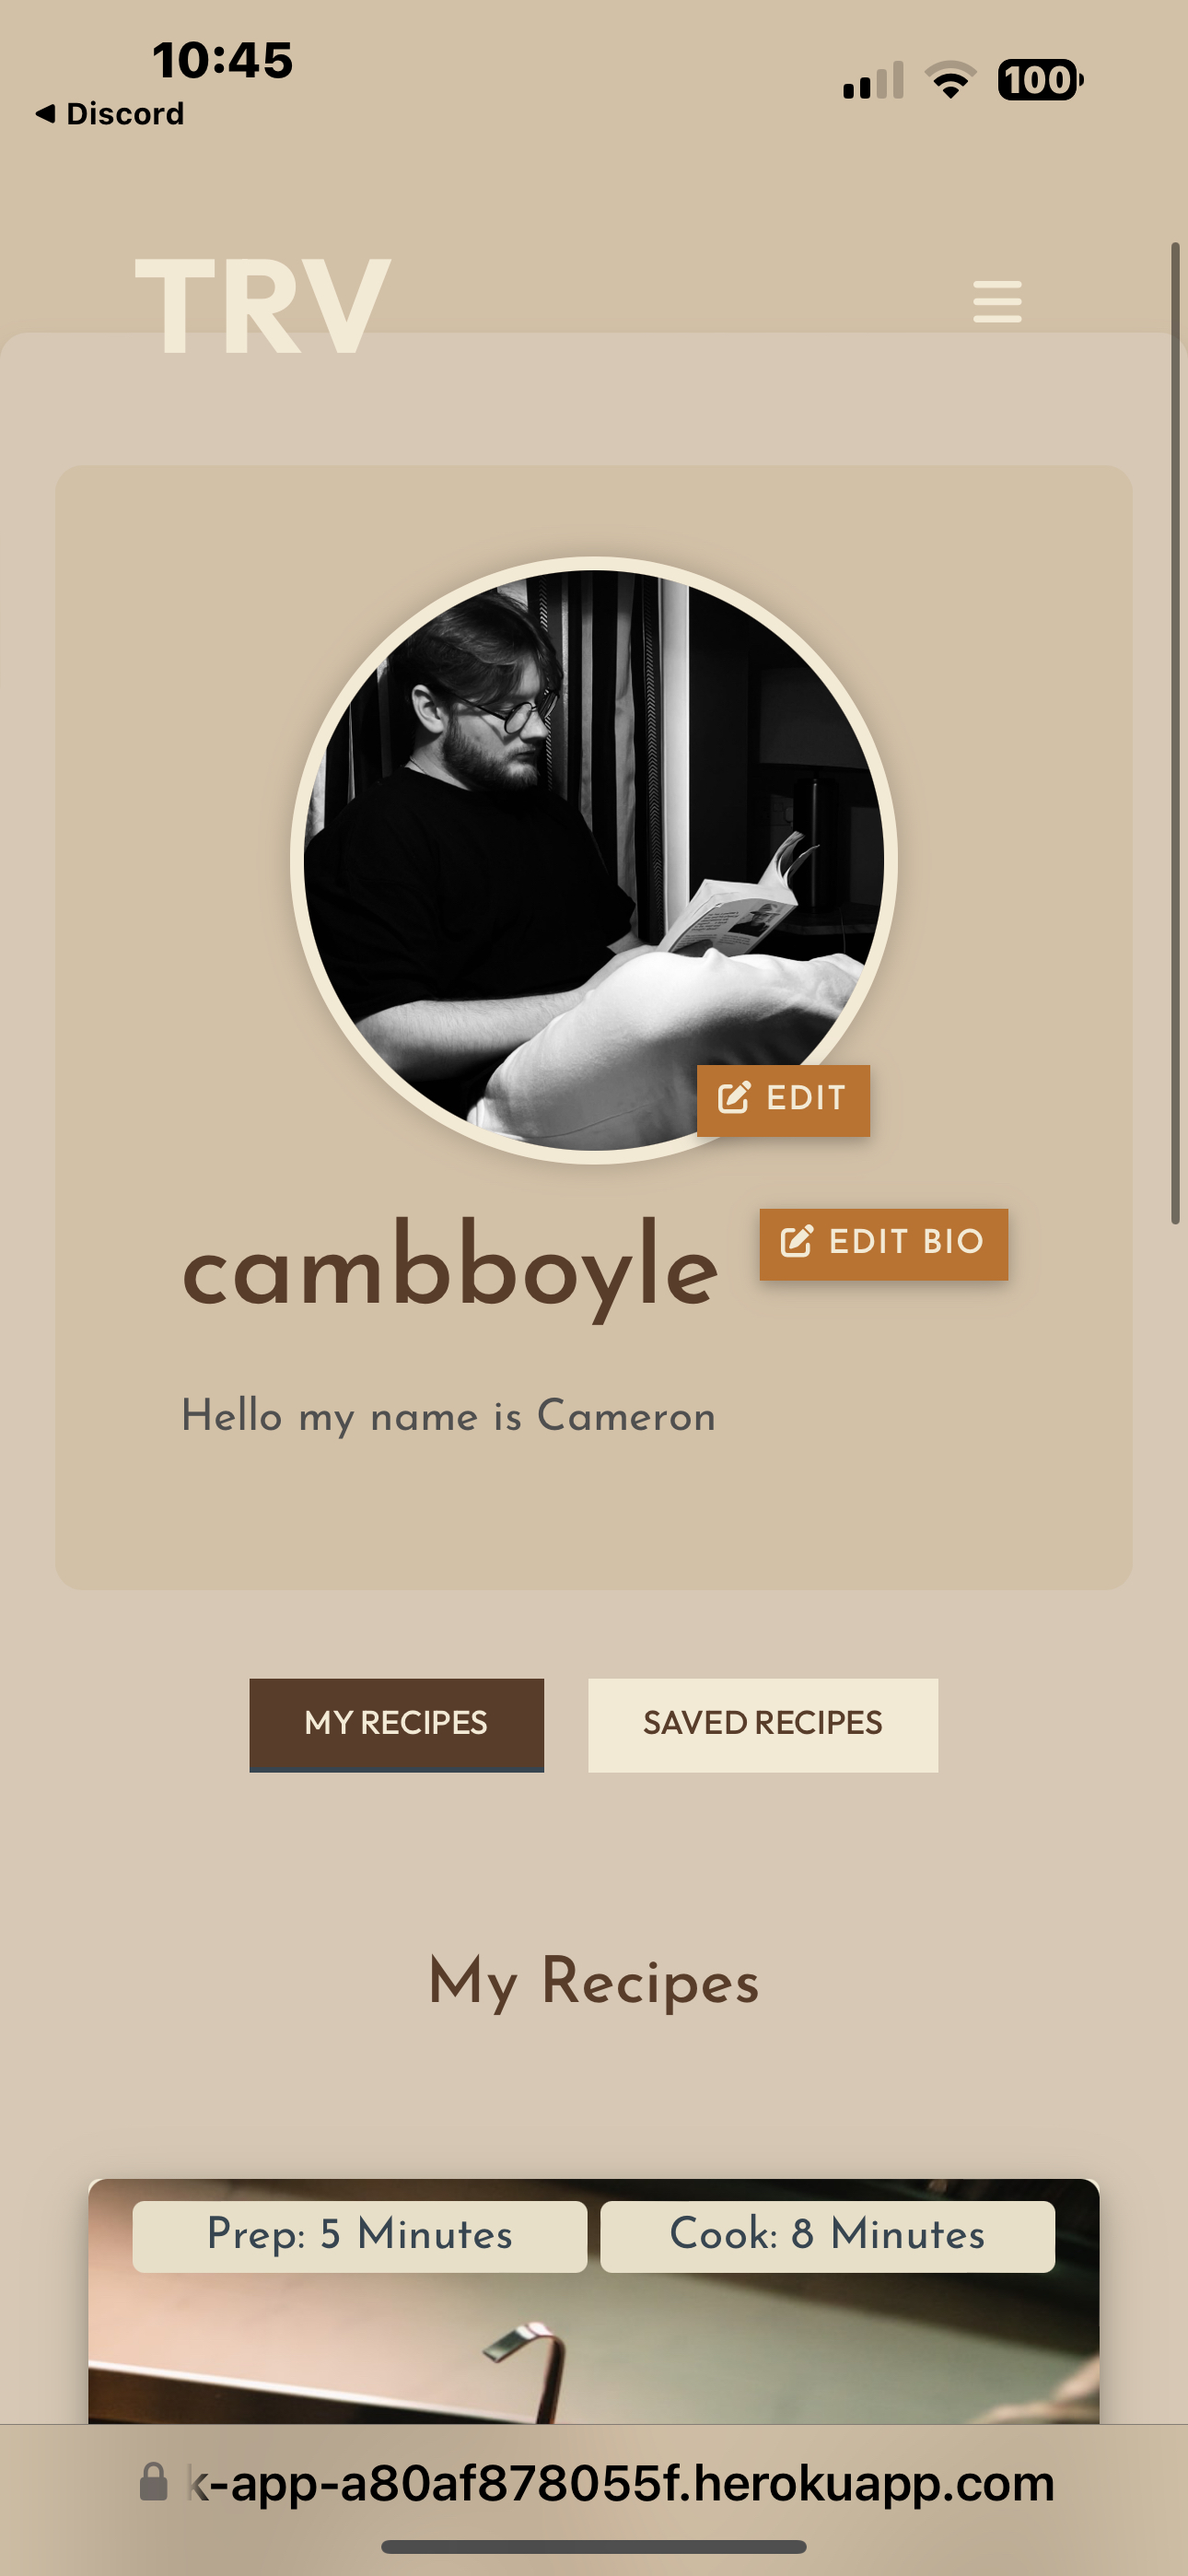
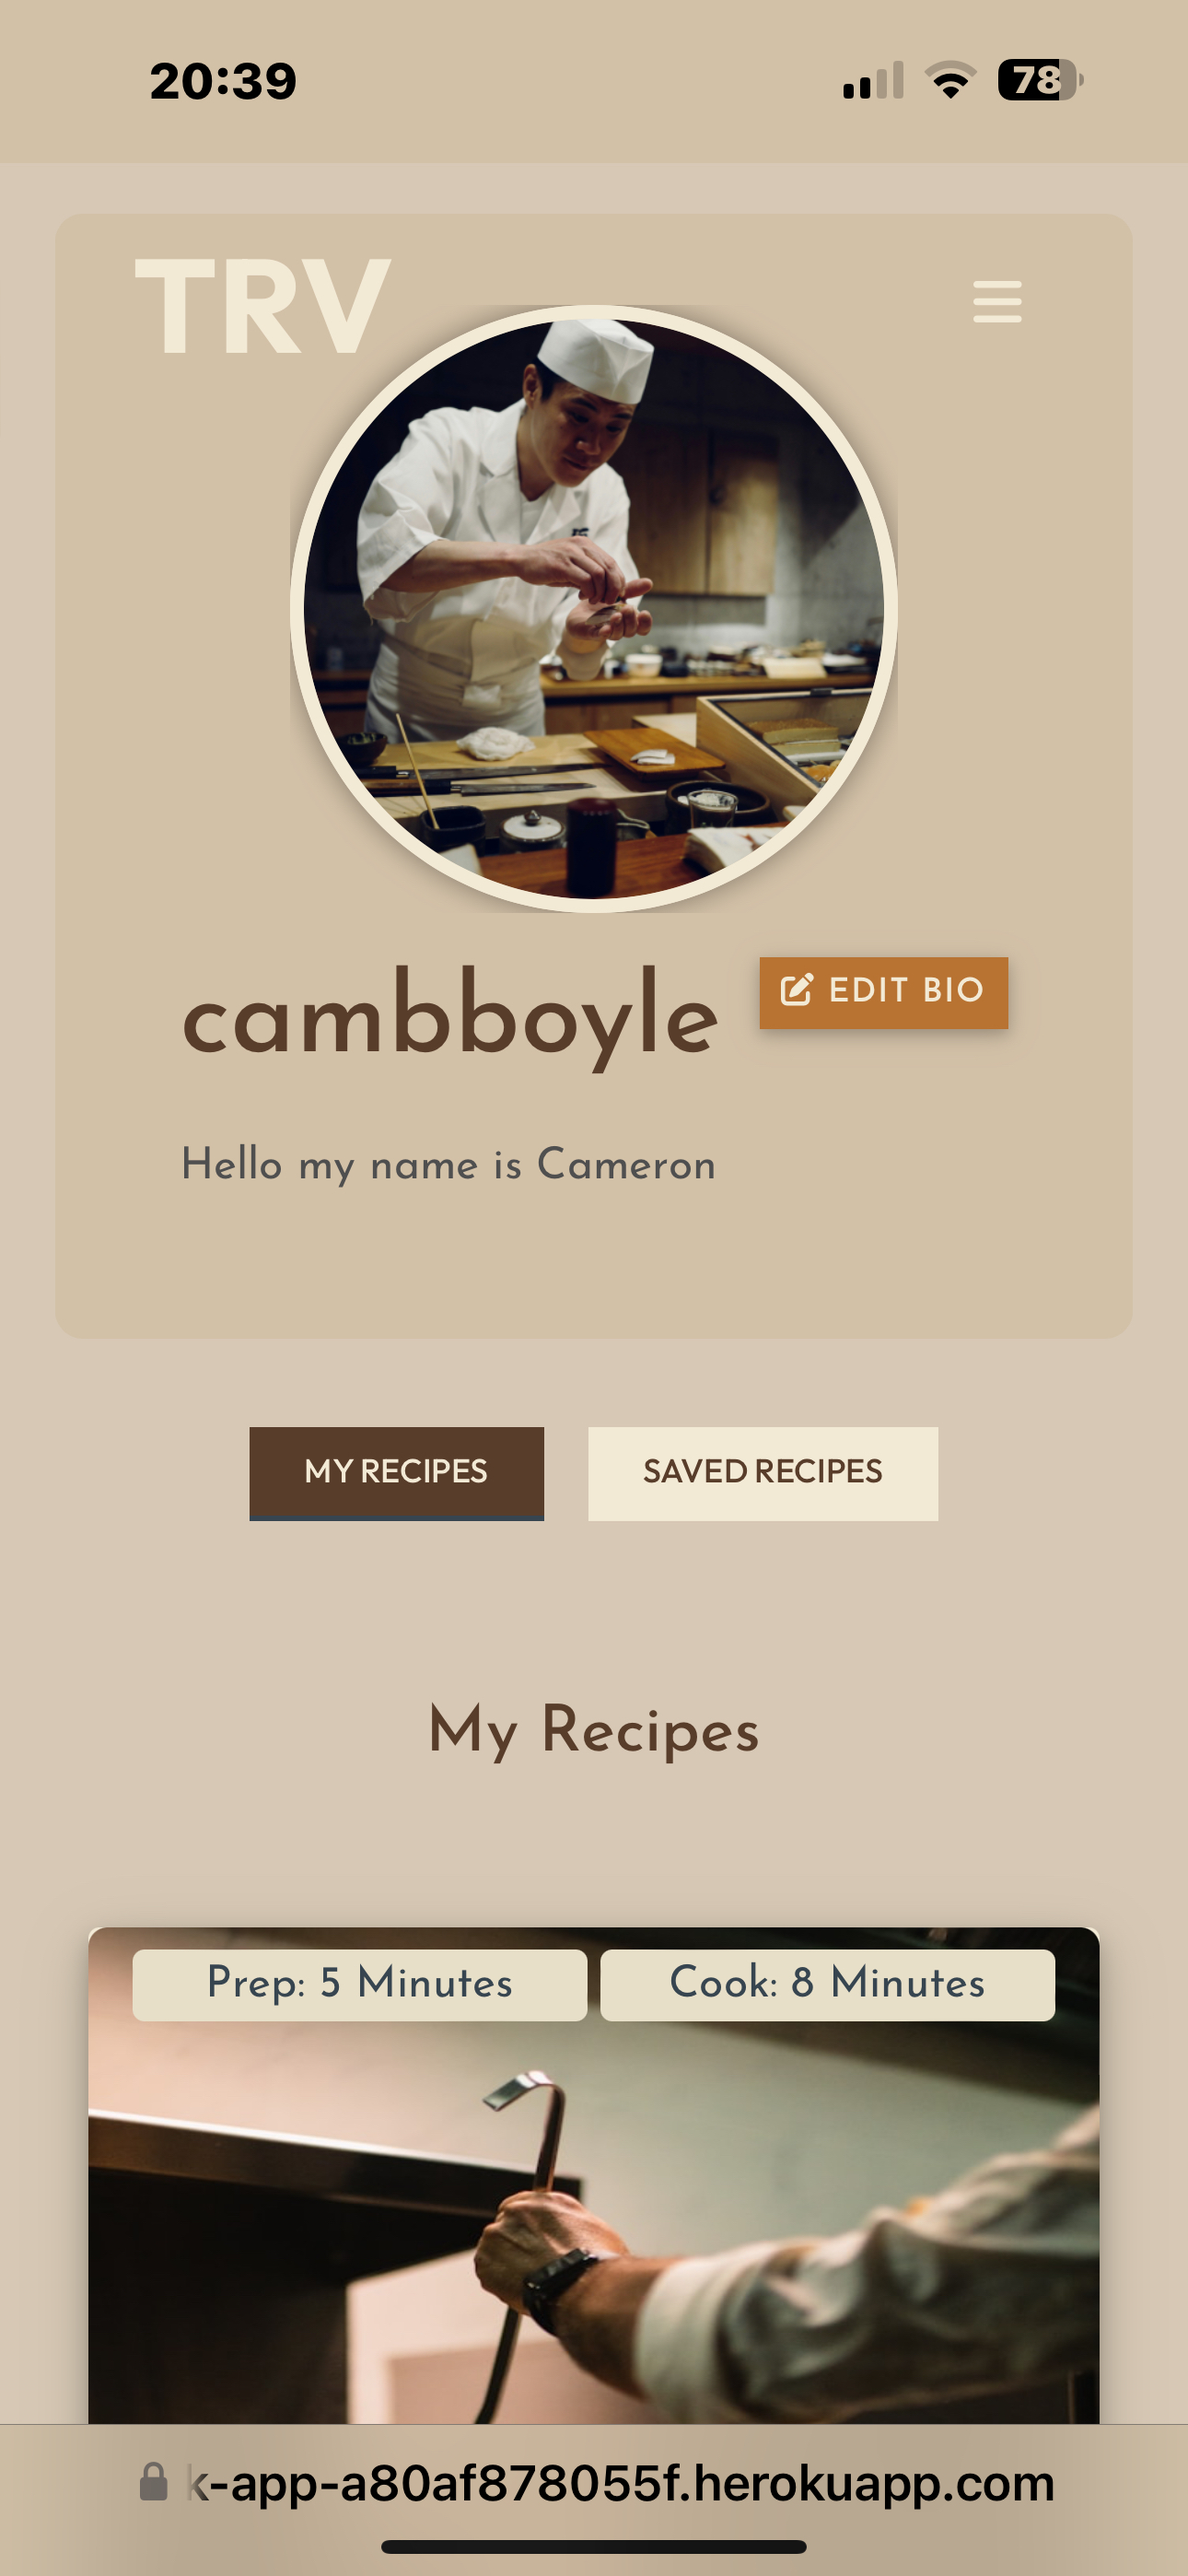
Fix error with delete button on recipe view

diff --git a/templates/recipe.html b/templates/recipe.html
@@ -81,13 +81,12 @@
                 </div>
                 <!-- buttons -->
                 <div class="card-text col-sm-12 text-center">
-                    <a href="{{ url_for('get_recipes') }}" class="btn btn-primary">Back to Recipes</a>
+                    <a href="{{ url_for('get_recipes') }}" class="btn btn-primary p-2">Back to Recipes</a>
                     {% if session.user|lower == recipe.created_by|lower %}
-                        <a href="{{ url_for('edit_recipe', recipe_id=recipe._id) }}" class="btn btn-outline-primary">Edit Recipe</a>
-                        <!-- Delete Button-->
-                        <a href="{{ url_for('delete_recipe', recipe_id=recipe._id) }}" onclick="confirmDelete('{{ recipe._id }}', '{{ recipe.name }}')" class="btn btn-danger">
+                        <a href="{{ url_for('edit_recipe', recipe_id=recipe._id) }}" class="btn btn-outline-primary p-2">Edit Recipe</a>
+                        <button class="btn btn-danger" data-recipe-id="{{ recipe._id }}" data-recipe-name="{{ recipe.recipe_name }}">
                             Delete Recipe <i class="fa-solid fa-trash"></i>
-                        </a>
+                        </button>
                     {% endif %}
                 </div>
             </div>
@@ -149,6 +148,50 @@
                     .catch(error => console.error('Save Error:', error));
             });
         }
+
+        // Define the confirmDelete function
+        function confirmDelete(recipeId, recipeName) {
+            const confirmed = confirm(`Are you sure you want to delete the recipe "${recipeName}"? This action cannot be undone.`);
+            
+            if (confirmed) {
+                fetch(`/delete_recipe/${recipeId}`, {
+                    method: 'POST',
+                    headers: {
+                        'Content-Type': 'application/json'
+                    }
+                })
+                .then(response => response.json())
+                .then(data => {
+                    if (data.success) {
+                        window.location.href = data.redirect; // Redirect to the provided URL
+                    } else {
+                        alert(`Error: ${data.error}`);
+                    }
+                })
+                .catch(error => console.error(`Error: ${error}`));
+            }
+        }
+
+        // Attach event listeners to delete buttons
+        const deleteButtons = document.querySelectorAll('.btn-danger');
+
+        deleteButtons.forEach(button => {
+            button.addEventListener('click', function(event) {
+                event.preventDefault();
+
+                const recipeId = this.getAttribute('data-recipe-id');
+                const recipeName = this.getAttribute('data-recipe-name');
+
+                console.log(`Recipe ID: ${recipeId}, Recipe Name: ${recipeName}`);
+
+                if (!recipeId || recipeId === 'undefined') {
+                    console.error('Recipe ID not found');
+                    return;
+                }
+
+                confirmDelete(recipeId, recipeName);
+            });
+        });
     });
 </script>
 {% endblock %}

diff --git a/app.py b/app.py
@@ -283,30 +283,27 @@ def edit_recipe(recipe_id):
 
 
 # Delete Recipe
-@app.route("/delete_recipe/<recipe_id>", methods=["GET", "POST"])
+@app.route("/delete_recipe/<recipe_id>", methods=["POST"])
 def delete_recipe(recipe_id):
+    if "user" not in session:
+        flash("Please log in to delete recipes")
+        return jsonify({"error": "User not logged in"}), 401
+
     try:
-        if "user" not in session:
-            flash("Please log in to delete recipes")
-            return redirect(url_for("login"))
-            return jsonify({"error": "User not logged in"}), 401
-
         recipe = mongo.db.recipes.find_one({"_id": ObjectId(recipe_id)})
-
         if not recipe:
             return jsonify({"error": "Recipe not found"}), 404
 
         if session["user"] != recipe["created_by"]:
-            return jsonify({
-                "error": "You can only delete your own recipes"}), 403
+            return jsonify({"error": "You can only delete your own recipes"}), 403
 
         result = mongo.db.recipes.delete_one({"_id": ObjectId(recipe_id)})
         if result.deleted_count == 1:
             flash("Recipe deleted successfully")
-            return jsonify({
-                "success": True, "redirect": url_for("get_recipes")})
-        else:
-            return jsonify({"error": "Failed to delete recipe"}), 500
+            return jsonify({"success": True, "redirect": url_for("get_recipes")})
+
+        return jsonify({"error": "Failed to delete recipe"}), 500
+
     except Exception as e:
         return jsonify({"error": str(e)}), 500
 

diff --git a/README.md b/README.md
@@ -8,7 +8,6 @@
 
 ## Mockup
 
-| Mockup |
 | This is a mockup of the Recipe Vault application, showcased using Am I Responsive? |
 | --- |
 | ![Mockup](documentation/other_images/AmIResponsiveRecipeVault.png) |
@@ -186,9 +185,8 @@ Here are some of the features that I implemented in the application, took out an
 | Footer | The footer contains a navigation bar, a copyright notice, and social media links. | ![Footer](documentation/feature_images/footer.png) |
 | Register | This page allows the user to create an account on the site. | ![Register](documentation/feature_images/sign_up.png) |
 | Login | This page allows the user to log in to their account if they have an account. | ![Login](documentation/feature_images/login.png) |
-| Profile | This page displays the user's profile, which includes their username, recipes, saved recipes, and bio. | ![Profile](documentation/feature_images/profile.png) |
+| Profile | This page displays the user's profile, which includes their username, recipes, saved recipes, and bio. | ![Profile](documentation/responsive_images/desktop/profile_desktop.png) |
 | Edit Bio | This button enables the user to edit their bio. | ![Edit Bio](documentation/feature_images/edit_bio.png) |
-| Edit Profile Picture | This button enables the user to edit their profile picture. | ![Edit Profile Picture](documentation/feature_images/edit_profile_picture.png) |
 | User Recipes | This tab displays the user's recipes. | ![User Recipes](documentation/feature_images/user_recipes.png) |
 | Saved Recipes | This tab displays the user's saved recipes. | ![Saved Recipes](documentation/feature_images/saved_recipes.png) |
 | Add Recipe | This page allows the user to create a new recipe, which includes the recipe name, category, recipe description, serving size, prep time, cooking time, dietary restrictions, meal type, main ingredients, and recipe method. | ![Add Recipe](documentation/feature_images/add_recipe.png) |
@@ -196,6 +194,7 @@ Here are some of the features that I implemented in the application, took out an
 | Edit Recipe | This page is opened via the View Recipe page, which allows the user to edit the recipe details. | ![Edit Recipe](documentation/feature_images/edit_recipe.png) |
 | Delete Recipe | This button prompts the user to confirm the deletion of the recipe. | ![Delete Recipe](documentation/feature_images/delete_recipe.png) |
 | Contact Form | This page allows the user to contact the site administrator. | ![Contact Form](documentation/feature_images/contact_form.png) |
+| Email from Contact Form | This page displays an email to the site administrator, which includes the user's name, email, subject and message. | ![Email from Contact Form](documentation/feature_images/email.png) |
 | Flash Messages | Flash messages are displayed to the user when certain actions are performed, such as successfully logging in, successfully registering, or successfully editing a recipe. | ![Flash Messages](documentation/feature_images/flash_messages.png) |
 | ADMIN ONLY | ADMIN ONLY | ADMIN ONLY |
 | Categories | This page displays the list of categories that the site administrator has created. | ![Categories](documentation/feature_images/categories.png) |
@@ -210,7 +209,7 @@ Here are some of the features that I implemented in the application, took out an
 <details>
 <summary>Future features</summary>
 
-- Profile Picture: Allow users to upload their own profile picture. (Logic is implemented, but nowhere to store the uploads apart from local storage)
+- Profile Picture: Allow users to upload their own profile picture. (See [TESTING.md](TESTING.md) for more information.)
 - Recipe Images: Allow users to upload their own recipe images.
 - Recipe ratings and reviews: Allow users to rate recipes and leave reviews.
 - Meal planning: Implement a feature that lets users plan their meals for the week using saved recipes.
@@ -257,6 +256,57 @@ Here are some of the features that I implemented in the application, took out an
 - [MongoDB Atlas](https://www.mongodb.com/atlas)
 
 ## Database Schema
+
+Below are my database schemas for the MongoDB Atlas database.
+
+<details>
+<summary>Click for database schemas</summary>
+
+| Collection | Field | Type | Description |
+| --- | --- | --- | --- |
+| **users** | | | |
+| | _id | ObjectId | The unique identifier of the user. |
+| | username | String | The username of the user. |
+| | email | String | The email address of the user. |
+| | password | String | The password of the user. Encrypted using werkzeug.security.generate_password_hash. |
+| | bio | String | The bio of the user. |
+| **recipes** | | | |
+| | _id | ObjectId | The unique identifier of the recipe. |
+| | recipe_name | String | The name of the recipe. |
+| | category_name | String | The category of the recipe. |
+| | recipe_description | String | The description of the recipe. |
+| | serving_size | String | The serving size of the recipe. |
+| | prep_time | String | The prep time of the recipe. |
+| | cooking_time | String | The cooking time of the recipe. |
+| | dietary | String | The dietary restrictions of the recipe. |
+| | meal_type | String | The meal type of the recipe. |
+| | main_ingredients | Array | The main ingredients of the recipe. |
+| | recipe_method | Array | The recipe method of the recipe. |
+| | liked_by | Array | The users who liked the recipe. |
+| | likes | Number | The number of likes the recipe has received. |
+| | created_by | ObjectId | The user who created the recipe. |
+| | created_at | Date | The date and time the recipe was created. |
+| **saved_recipes** | | | |
+| | _id | ObjectId | The unique identifier of the saved recipe. |
+| | user | String| The user who saved the recipe. |
+| | recipe_id | ObjectId | The unique identifier of the recipe. |
+| | saved_at | Date | The date the recipe was saved. |
+| **categories** | | | |
+| | _id | ObjectId | The unique identifier of the category. |
+| | category_name | String | The name of the category. |
+| **dietary_requirements** | | | |
+| | _id | ObjectId | The unique identifier of the dietary requirement. |
+| | dietary_name | String | The name of the dietary requirement. |
+| **meal_type** | | | |
+| | _id | ObjectId | The unique identifier of the meal type. |
+| | meal_type | String | The name of the meal type. |
+| **saves** | | | |
+| | _id | ObjectId | The unique identifier of the save. |
+| | user | String | The user who saved the recipe. |
+| | recipe_id | ObjectId | The unique identifier of the recipe. |
+| | saved_at | Date | The date the recipe was saved. |
+
+</details>
 
 ## Testing
 

diff --git a/TESTING.md b/TESTING.md
@@ -113,6 +113,10 @@ Defensive Programming was tested manually, and the results were as follows:
 
 | | Expected Behavior | Test | Actual Behavior |
 | --- | --- | --- | --- |
+| **General** | | | |
+| Text Boxes | Minimum & Maximum lenght on input boxes | Tested by typing characters in a text box that exceeds the minimum or maximum length | When form is submitted, validation message is displayed |
+| Password Regex | Expected to only accept characters in the regex | Tested by typing characters that do not match the regex | When form is submitted, validation message is displayed |
+| URL change | Redirect user to login page if URL is changed | Tested by changing the URL in the browser | Redirected to the login page |
 | **Non-logged in users** | | | |
 | Home Button | Expected to redirect to the home page | Tested by clicking the button | Redirected to the home page |
 | Login Button | Expected to redirect to the login page | Tested by clicking the button | Redirected to the login page |
@@ -147,7 +151,11 @@ Encountered a bug where the profile picture was not being stored in the database
 
 I can upload pictures from my IDE and on localhost, but when I try to upload them from Heroku, they are not uploaded.
 
+I have removed the ability to upload profile pictures from the project, as I was unable to get it to work with Heroku.
+
 ## FIXED BUGS
+
+### Bug 1
 
 One bug was fixed in the project, which was a bug in the recipe editing page.
 
@@ -156,3 +164,7 @@ The add ingredient/step button was not creating more ingredients/steps when clic
 This was fixed in by adding the appropriate JavaScript code from the script.js file to the edit_recipe.html file.
 
 The issue also persisted on the add recipe page, so this was also fixed.
+
+### Bug 2
+
+I encountered a bug when deleting a recipe, after clicking the delete button, the user was redirected to a black page, with one line of JSON in it. 
